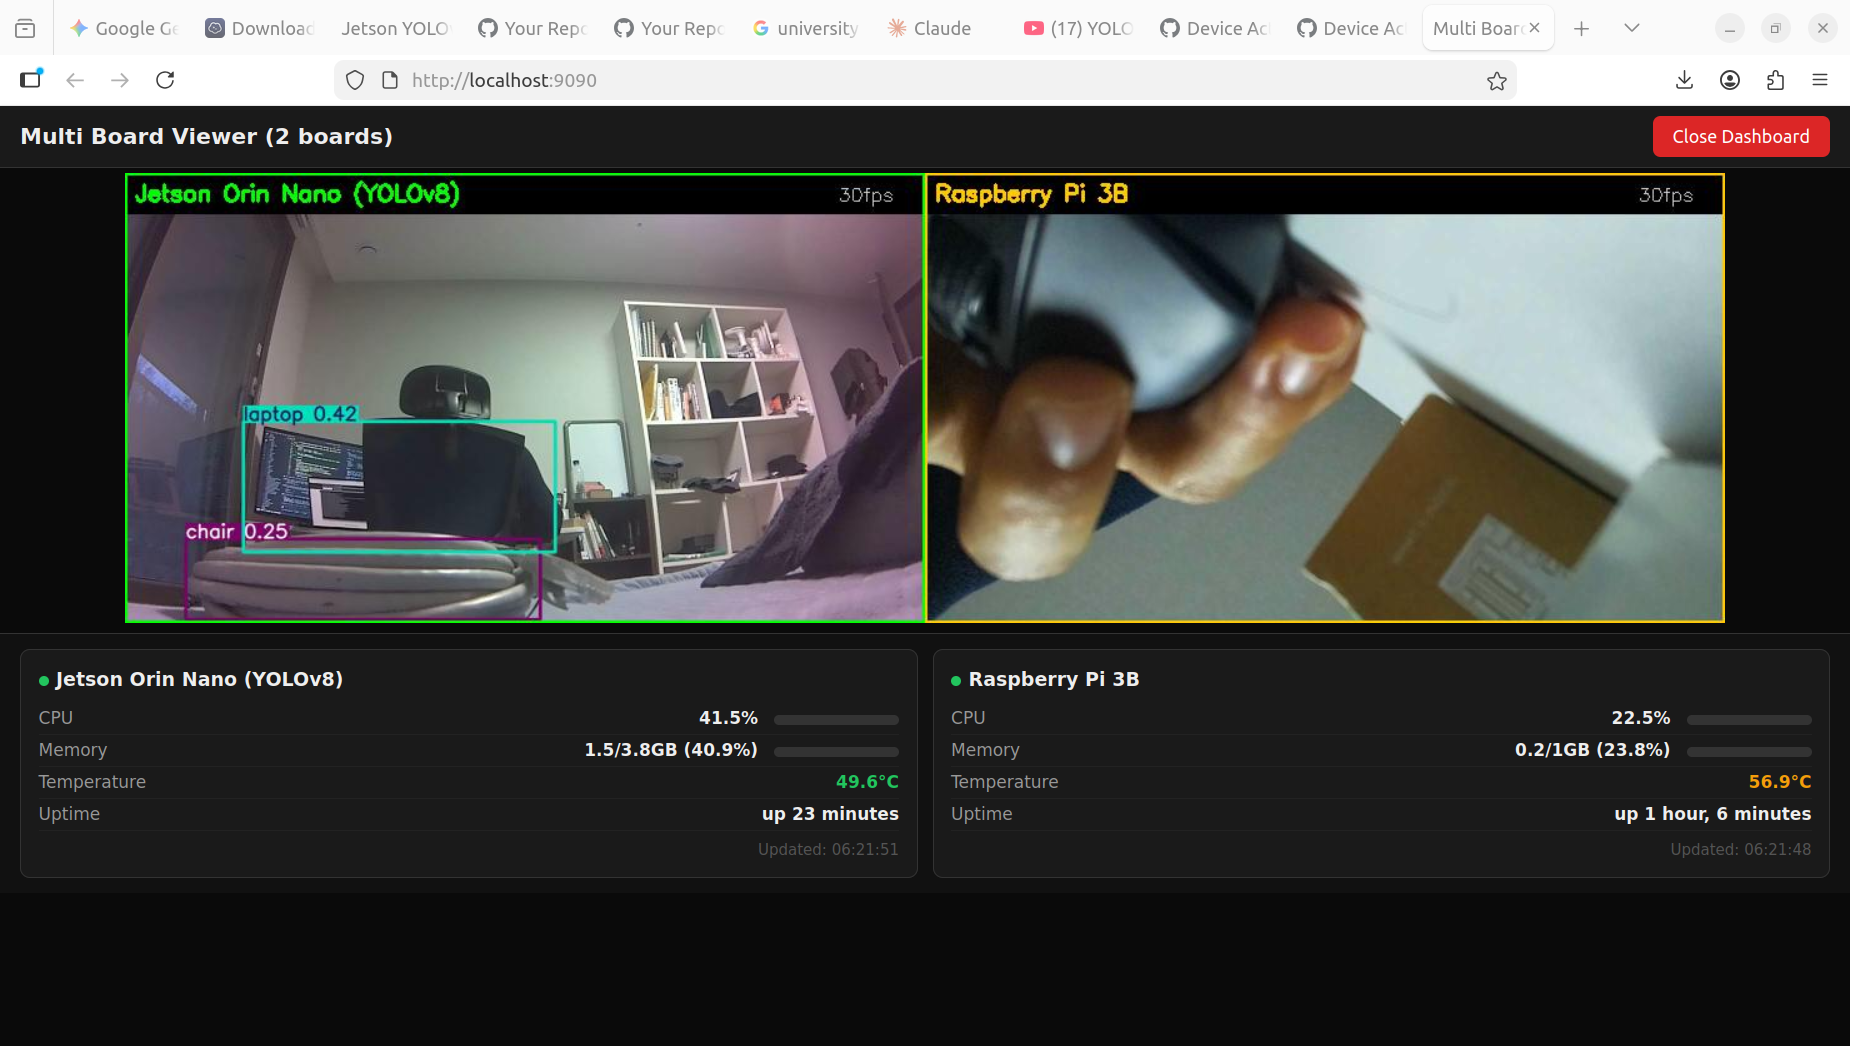
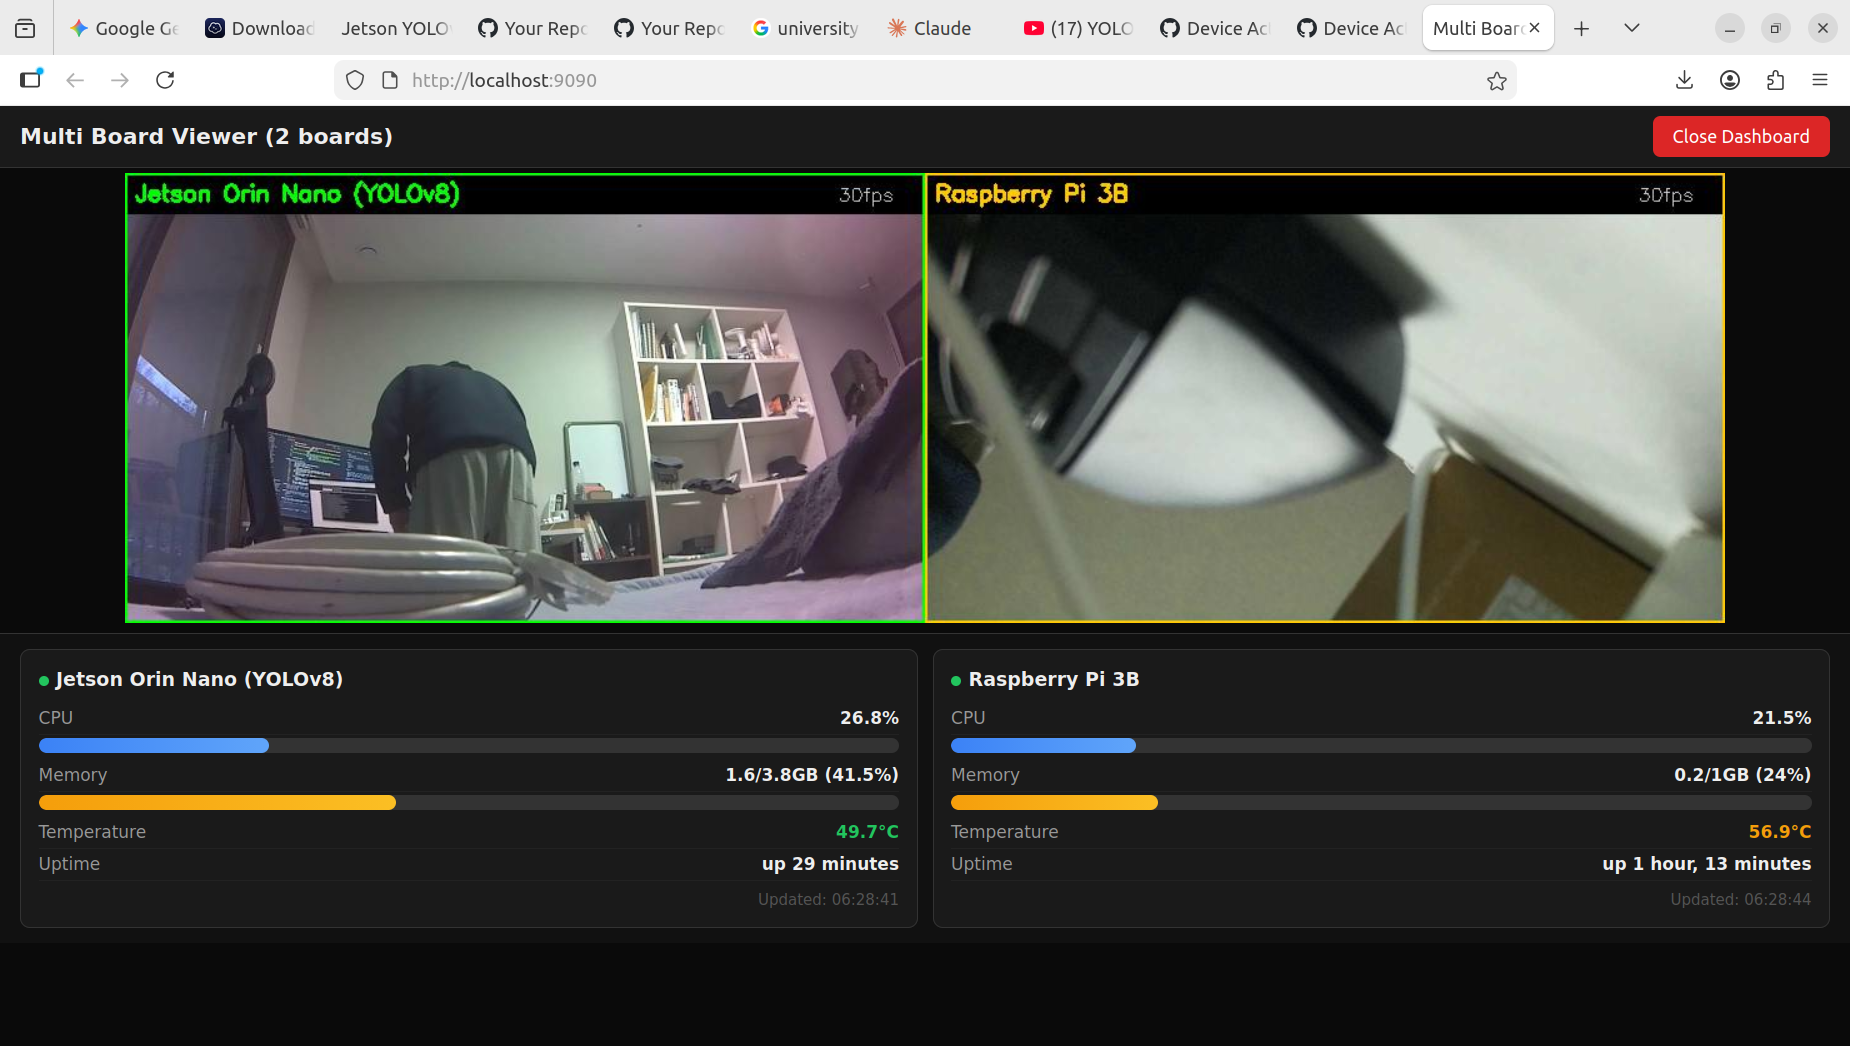
fix: dashboard progress bars now fill proportionally

diff --git a/multi_board_viewer.py b/multi_board_viewer.py
@@ -219,15 +219,16 @@ HTML_PAGE = """<!DOCTYPE html>
     .stat-row:last-child { border-bottom:none; }
     .stat-label { color:#999; }
     .stat-value { font-weight:600; }
-    .bar-bg {
-        width:100px; height:8px; background:#333; border-radius:4px;
-        display:inline-block; vertical-align:middle; margin-left:8px;
+    .bar-row { padding:2px 0 6px 0; }
+    .bar-bg-full {
+        width:100%; height:12px; background:#333; border-radius:6px;
+        overflow:hidden;
     }
     .bar-fill {
-        height:100%; border-radius:4px; transition:width 0.5s;
+        height:100%; border-radius:6px; transition:width 0.5s;
     }
-    .bar-cpu { background:#3b82f6; }
-    .bar-mem { background:#f59e0b; }
+    .bar-cpu { background:linear-gradient(90deg, #3b82f6, #60a5fa); }
+    .bar-mem { background:linear-gradient(90deg, #f59e0b, #fbbf24); }
     .temp-normal { color:#22c55e; }
     .temp-warm { color:#f59e0b; }
     .temp-hot { color:#ef4444; }
@@ -288,16 +289,14 @@ function fetchStatus() {
                     body = `
                         <div class="stat-row">
                             <span class="stat-label">CPU</span>
-                            <span class="stat-value">${s.cpu_pct}%
-                                <span class="bar-bg"><span class="bar-fill bar-cpu" style="width:${s.cpu_pct}%"></span></span>
-                            </span>
+                            <span class="stat-value">${s.cpu_pct}%</span>
                         </div>
+                        <div class="bar-row"><div class="bar-bg-full"><div class="bar-fill bar-cpu" style="width:${s.cpu_pct}%"></div></div></div>
                         <div class="stat-row">
                             <span class="stat-label">Memory</span>
-                            <span class="stat-value">${s.mem_used_gb}/${s.mem_total_gb}GB (${s.mem_pct}%)
-                                <span class="bar-bg"><span class="bar-fill bar-mem" style="width:${s.mem_pct}%"></span></span>
-                            </span>
+                            <span class="stat-value">${s.mem_used_gb}/${s.mem_total_gb}GB (${s.mem_pct}%)</span>
                         </div>
+                        <div class="bar-row"><div class="bar-bg-full"><div class="bar-fill bar-mem" style="width:${s.mem_pct}%"></div></div></div>
                         <div class="stat-row">
                             <span class="stat-label">Temperature</span>
                             <span class="stat-value ${tempClass(s.temp_c)}">${s.temp_c}&deg;C</span>
